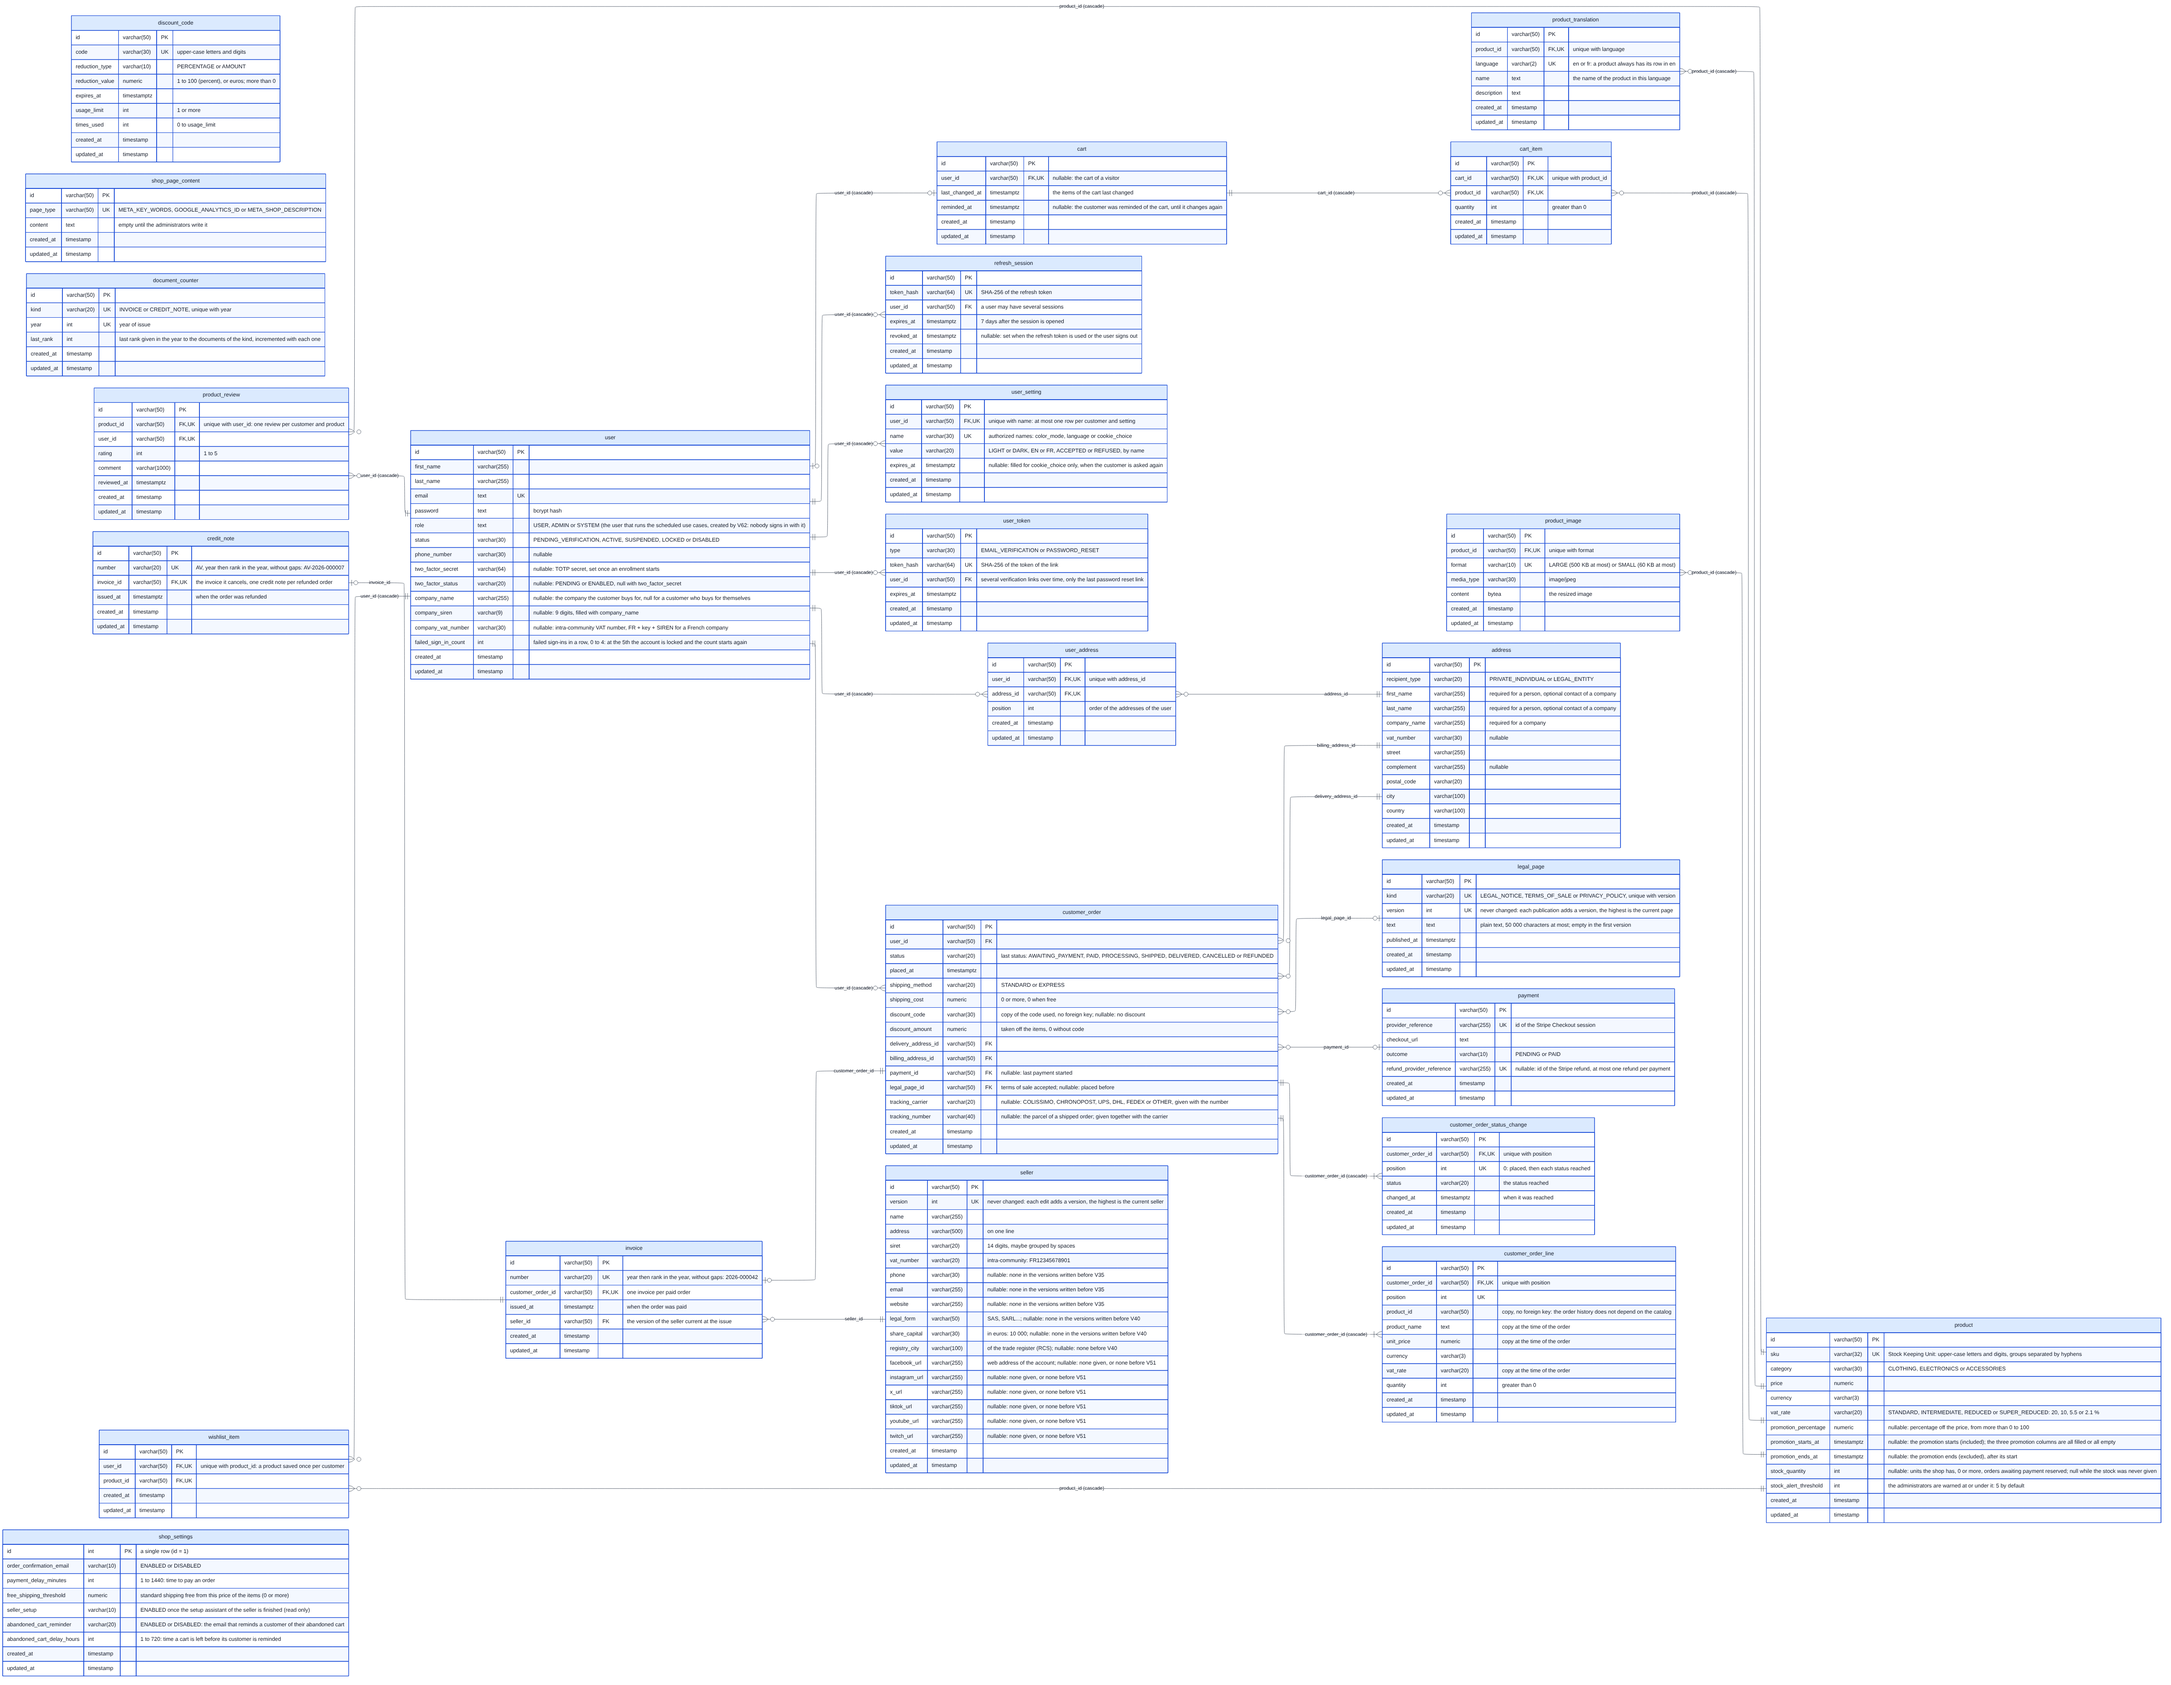
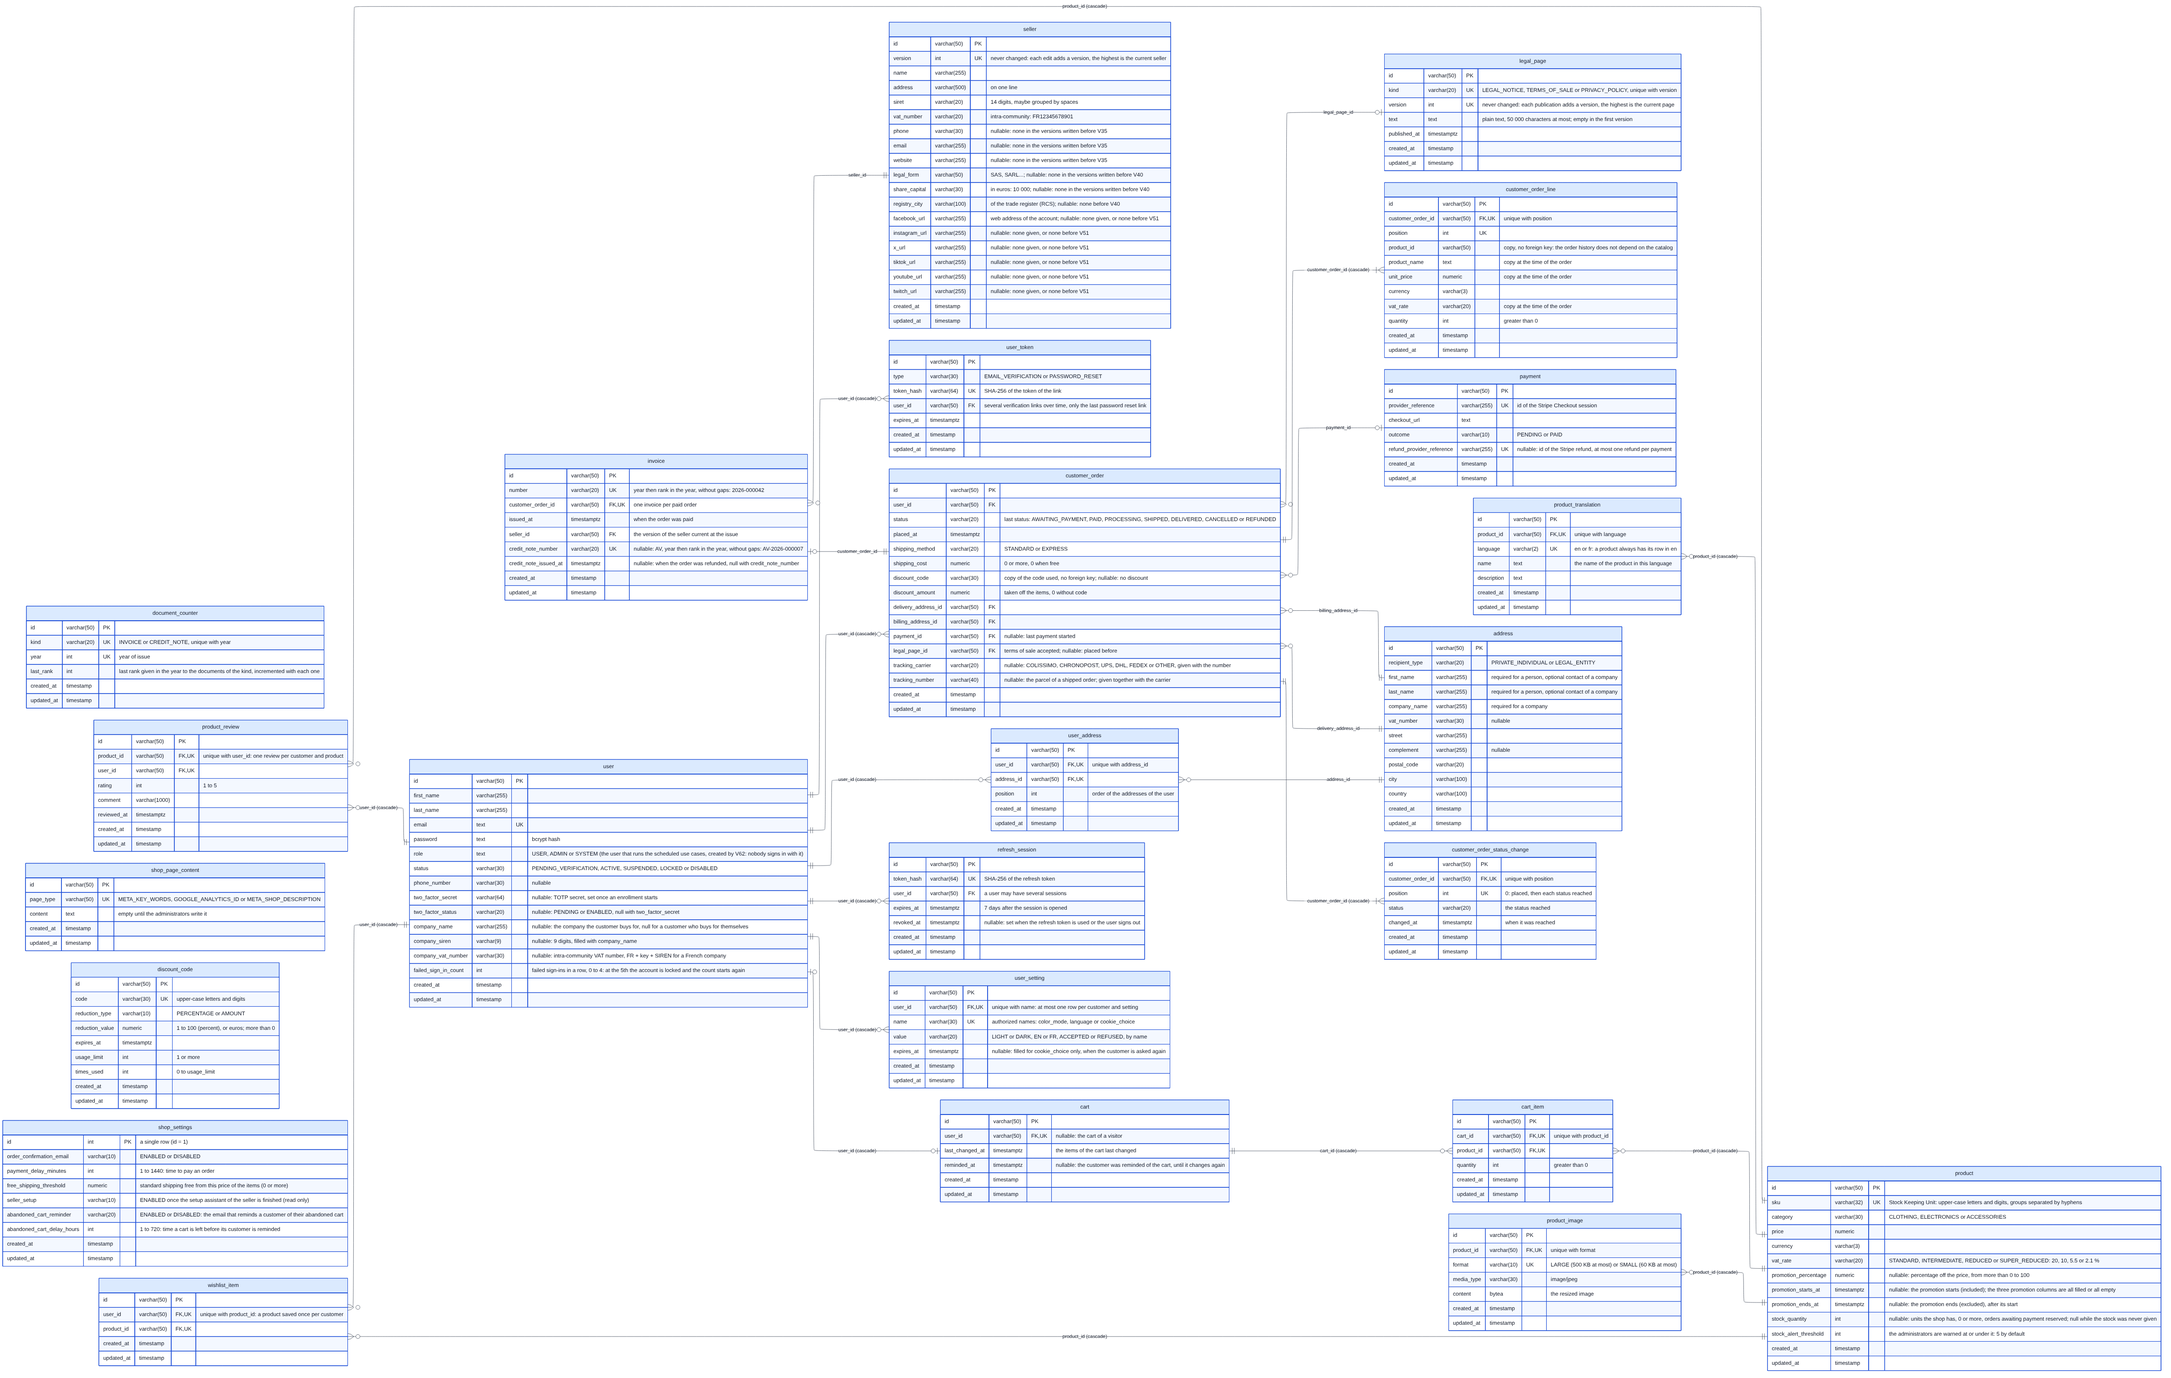
refactor(db): merge credit_note into invoice
An invoice has at most one credit note, so its number and the moment it was
issued are now the columns credit_note_number and credit_note_issued_at of
invoice (null together while the invoice is not cancelled) instead of a
credit_note table with at most one row per invoice. V65 migrates the
existing credit notes and drops the table. The credit notes keep their own
sequence of numbers (document_counter) and the domain port is unchanged;
the adapter writes the two columns with its own statement.

Claude-Session: https://claude.ai/code/session_01U9gDSbzP5MnaS62r7ychUw

diff --git a/backend/spring-infra/src/main/kotlin/org/flexstore/infra/spring/adapter/persistence/jpa/repository/JpaCreditNoteRepository.kt b/backend/spring-infra/src/main/kotlin/org/flexstore/infra/spring/adapter/persistence/jpa/repository/JpaCreditNoteRepository.kt
@@ -4,17 +4,27 @@ import org.flexstore.domain.invoice.*
 import org.flexstore.domain.invoice.model.*
 import org.flexstore.domain.order.model.OrderId
 import org.flexstore.domain.sharedkernel.Identity
-import org.flexstore.infra.spring.adapter.persistence.jpa.entity.CreditNoteEntity
+import org.flexstore.infra.spring.adapter.persistence.jpa.entity.InvoiceEntity
 import org.springframework.data.jpa.repository.JpaRepository
+import org.springframework.data.jpa.repository.Modifying
 import org.springframework.data.jpa.repository.Query
 import org.springframework.stereotype.Repository
 import org.springframework.transaction.annotation.Transactional
+import java.time.Instant
 import java.time.ZoneId
 
+// The credit note is two columns of the invoice table, written by this statement only (the invoice entity does
+// not update them). The update date is set here, as Hibernate does not set it on a bulk update
 @Repository
-interface JpaCreditNoteRepository : JpaRepository<CreditNoteEntity, String> {
+interface JpaCreditNoteRepository : JpaRepository<InvoiceEntity, String> {
 
-    fun findByInvoiceId(invoiceId: String): CreditNoteEntity?
+    @Modifying(flushAutomatically = true, clearAutomatically = true)
+    @Query(
+        "UPDATE invoice SET credit_note_number = :number, credit_note_issued_at = :issuedAt, " +
+            "updated_at = now() WHERE id = :invoiceId",
+        nativeQuery = true
+    )
+    fun giveCreditNote(invoiceId: String, number: String, issuedAt: Instant): Int
 
     // The next rank of the credit notes of the year, as for the invoices: the credit note counter of the year
     // is created at 1, or incremented, and its row stays locked until the end of the transaction
@@ -29,7 +39,7 @@ interface JpaCreditNoteRepository : JpaRepository<CreditNoteEntity, String> {
 }
 
 // The credit notes, kept in PostgreSQL: numbered AV, the year of issue (in Paris) and the next rank of that
-// year. A credit note is found by the invoice it cancels
+// year. A credit note is stored in the invoice it cancels
 @Repository
 @Transactional
 class PostgresCreditNoteRepositoryAdapter(
@@ -43,18 +53,16 @@ class PostgresCreditNoteRepositoryAdapter(
         val year = creditNoteIssue.issuedAt.value.atZone(ZoneId.of("Europe/Paris")).year
         val rank = jpaRepo.nextRank(Identity.nextId().value, year)
         val number = "AV-$year-${rank.toString().padStart(RANK_DIGITS, '0')}"
-        val creditNoteEntity =
-            CreditNoteEntity(Identity.nextId().value, number, invoiceEntity.id, creditNoteIssue.issuedAt.value)
-        jpaRepo.save(creditNoteEntity)
+        jpaRepo.giveCreditNote(invoiceEntity.id, number, creditNoteIssue.issuedAt.value)
         return CreditNote(CreditNoteNumber(number), creditNoteIssue)
     }
 
     @Transactional(readOnly = true)
     override fun findBy(orderId: OrderId): CreditNote? {
         val invoiceEntity = jpaInvoiceRepository.findByCustomerOrderId(orderId.value) ?: return null
-        val creditNoteEntity = jpaRepo.findByInvoiceId(invoiceEntity.id) ?: return null
-        val creditNoteIssue = CreditNoteIssue(orderId, CreditNoteDate(creditNoteEntity.issuedAt))
-        return CreditNote(CreditNoteNumber(creditNoteEntity.number), creditNoteIssue)
+        val number = invoiceEntity.creditNoteNumber ?: return null
+        val issuedAt = invoiceEntity.creditNoteIssuedAt ?: return null
+        return CreditNote(CreditNoteNumber(number), CreditNoteIssue(orderId, CreditNoteDate(issuedAt)))
     }
 }
 

diff --git a/backend/spring-infra/src/main/kotlin/org/flexstore/infra/spring/adapter/persistence/jpa/entity/InvoiceEntity.kt b/backend/spring-infra/src/main/kotlin/org/flexstore/infra/spring/adapter/persistence/jpa/entity/InvoiceEntity.kt
@@ -3,7 +3,8 @@ package org.flexstore.infra.spring.adapter.persistence.jpa.entity
 import jakarta.persistence.*
 import java.time.Instant
 
-// The invoice of a paid order, numbered in the sequence of its year (document_counter)
+// The invoice of a paid order, numbered in the sequence of its year (document_counter), and its credit note
+// if any
 @Entity
 @Table(name = "invoice")
 data class InvoiceEntity(
@@ -21,5 +22,14 @@ data class InvoiceEntity(
 
     // The version of the seller current when the invoice was issued
     @Column(name = "seller_id", nullable = false, updatable = false)
-    val sellerId: String
+    val sellerId: String,
+
+    // The credit note that cancels the invoice when its order is refunded: its number and when it was issued,
+    // null together while there is none. Written by the credit note adapter only (updatable = false): saving the
+    // invoice never overwrites them
+    @Column(name = "credit_note_number", unique = true, updatable = false)
+    val creditNoteNumber: String? = null,
+
+    @Column(name = "credit_note_issued_at", updatable = false)
+    val creditNoteIssuedAt: Instant? = null
 ) : TimestampedEntity()

diff --git a/docs/database.md b/docs/database.md
@@ -1,6 +1,6 @@
 # Physical data model
 
-The PostgreSQL schema of Flexstore, as created by the Flyway migrations of `backend/migrations` (last migration: **V64**). Update this diagram in the same pull request as any migration that changes the schema (see the `database-convention` skill).
+The PostgreSQL schema of Flexstore, as created by the Flyway migrations of `backend/migrations` (last migration: **V65**). Update this diagram in the same pull request as any migration that changes the schema (see the `database-convention` skill).
 
 ![Physical data model](database.png)
 
@@ -129,6 +129,8 @@ erDiagram
         customer_order_id varchar(50) FK,UK "one invoice per paid order"
         issued_at timestamptz "when the order was paid"
         seller_id varchar(50) FK "the version of the seller current at the issue"
+        credit_note_number varchar(20) UK "nullable: AV, year then rank in the year, without gaps: AV-2026-000007"
+        credit_note_issued_at timestamptz "nullable: when the order was refunded, null with credit_note_number"
         created_at timestamp
         updated_at timestamp
     }
@@ -183,15 +185,6 @@ erDiagram
         kind varchar(20) UK "INVOICE or CREDIT_NOTE, unique with year"
         year int UK "year of issue"
         last_rank int "last rank given in the year to the documents of the kind, incremented with each one"
-        created_at timestamp
-        updated_at timestamp
-    }
-
-    credit_note {
-        id varchar(50) PK
-        number varchar(20) UK "AV, year then rank in the year, without gaps: AV-2026-000007"
-        invoice_id varchar(50) FK,UK "the invoice it cancels, one credit note per refunded order"
-        issued_at timestamptz "when the order was refunded"
         created_at timestamp
         updated_at timestamp
     }
@@ -317,7 +310,6 @@ erDiagram
     customer_order ||--|{ customer_order_line : "customer_order_id (cascade)"
     invoice |o--|| customer_order : "customer_order_id"
     invoice }o--|| seller : "seller_id"
-    credit_note |o--|| invoice : "invoice_id"
     customer_order ||--|{ customer_order_status_change : "customer_order_id (cascade)"
     user |o--o| cart : "user_id (cascade)"
     cart ||--o{ cart_item : "cart_id (cascade)"
@@ -335,7 +327,7 @@ erDiagram
 - Every table has a technical primary key `id` (generated by the application), and the creation and last update dates `created_at` / `updated_at` (set by Hibernate).
 - An `address` belongs to no user: the users refer to their addresses through `user_address`, the orders through `delivery_address_id` and `billing_address_id`. Editing an address creates a new row, removing it from a user deletes only its `user_address` row: an order always keeps the address it was delivered and billed to.
 - The `seller` written on the invoices is edited by the administrators. Each edit adds a version and never changes one: an `invoice` references the version current when it was issued, so that it keeps the seller it was issued with. Its legal form, its share capital and the city of its trade register are asked since V40, which adds a version of the demonstration seller with them while it is still the current one; the versions written before have none. Its accounts on the social networks (Facebook, Instagram, X, TikTok, YouTube, Twitch) are asked since V51, each one optional: the footer of the shop shows the ones that are given, and the versions written before have none.
-- A `credit_note` cancels the `invoice` of a refunded order, and is written with the seller of that invoice. The credit notes have their own sequence of numbers, as the invoices (one row of `document_counter` per kind and year, V60 merged the former `invoice_counter` and `credit_note_counter` tables); V39 issues the credit notes of the orders refunded before it, dated when they were refunded.
+- The credit note of a refunded order is two columns of the `invoice` it cancels (`credit_note_number` and `credit_note_issued_at`, null together while the invoice is not cancelled; V65 merged the former `credit_note` table into `invoice`), and is written with the seller of that invoice. The credit notes have their own sequence of numbers, as the invoices (one row of `document_counter` per kind and year, V60 merged the former `invoice_counter` and `credit_note_counter` tables); V39 issues the credit notes of the orders refunded before it, dated when they were refunded.
 - The `legal_page` rows are the legal notice, the terms of sale and the privacy policy of the shop, written by the administrators and read by everyone. Each publication adds a version of its kind and never changes one, so that the terms of sale of a given date can be found again. The migration creates a first, empty version of each kind; V38 adds a standard version of each one, written with the current seller, while its current version is still empty. V55 adds the privacy policy: a first, empty version, then its standard version, in the same way. An order keeps the version of the terms of sale its customer accepted (`legal_page_id`); the orders placed before V37 have none.
 - A customer who creates their account for their company gives it once: its three `company_` columns of `user` (name, SIREN, VAT number; V61 merged the former `customer_company` table into `user`): the name and the SIREN are filled together, and all are empty for a customer who buys for themselves. The address they give is then addressed to the company, for their attention (`address.recipient_type` `LEGAL_ENTITY`, with the company name and the VAT number).
 - The settings of a signed-in customer are `user_setting` rows (V58 merged the former `cookie_consent` and `user_preference` tables into it): one row per setting the customer chose, at most one per customer and `name`, replaced by each new choice. A new setting is a new authorized name (and its authorized values) in the checks of the table, not a new column. A customer who never chose a setting has no row for it.
